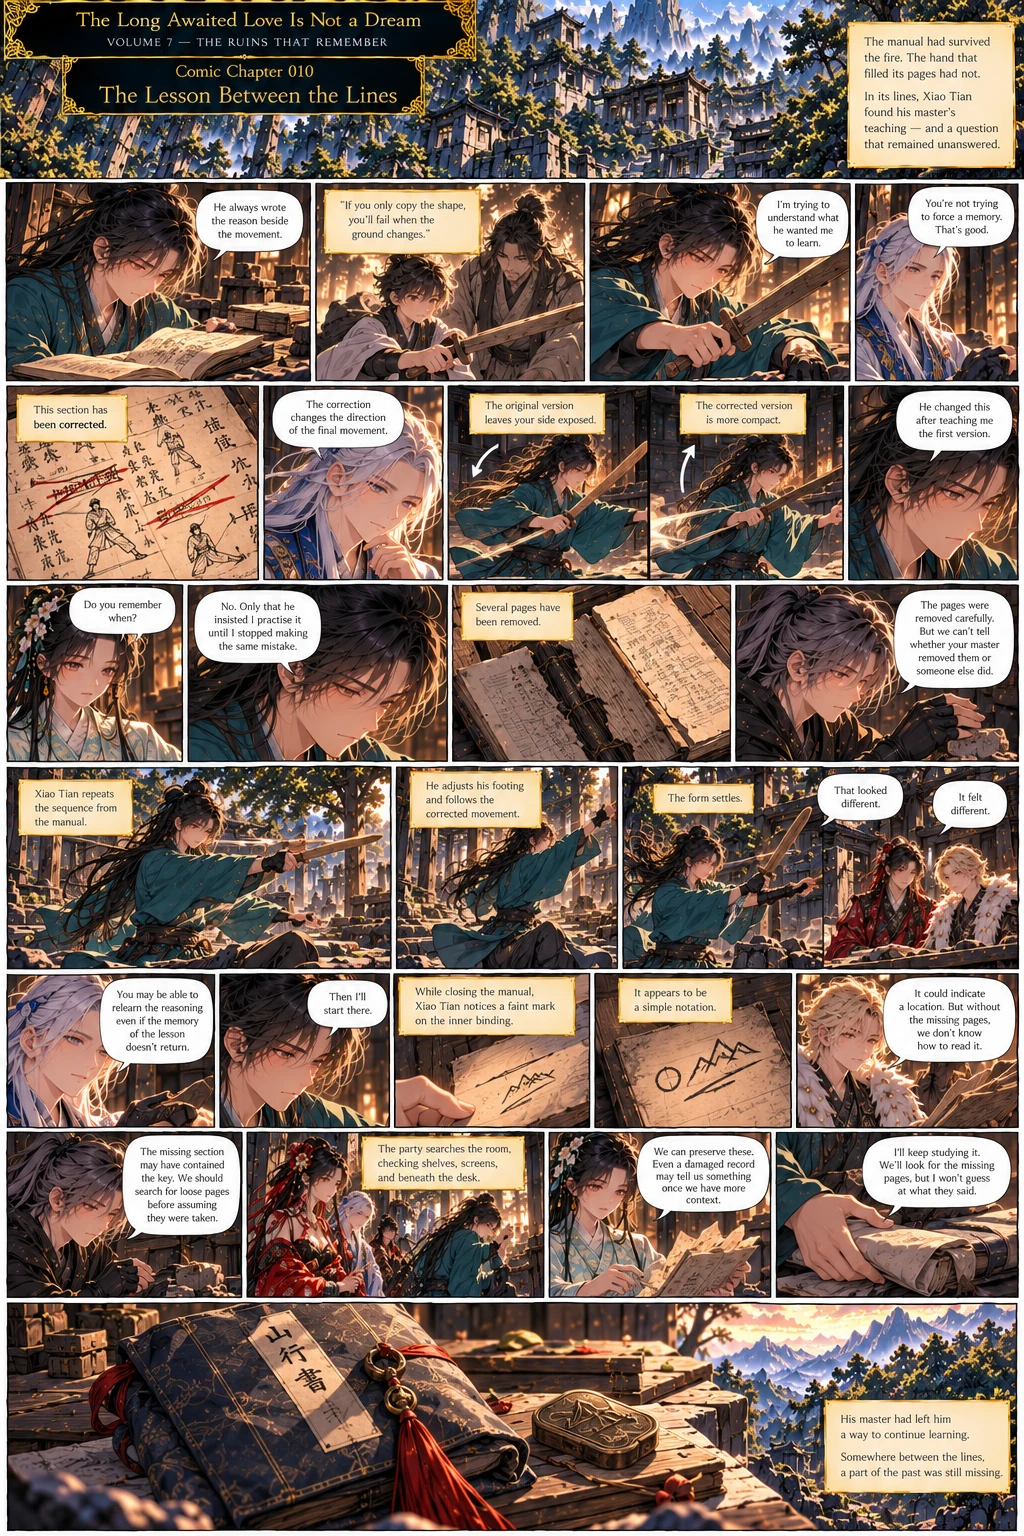
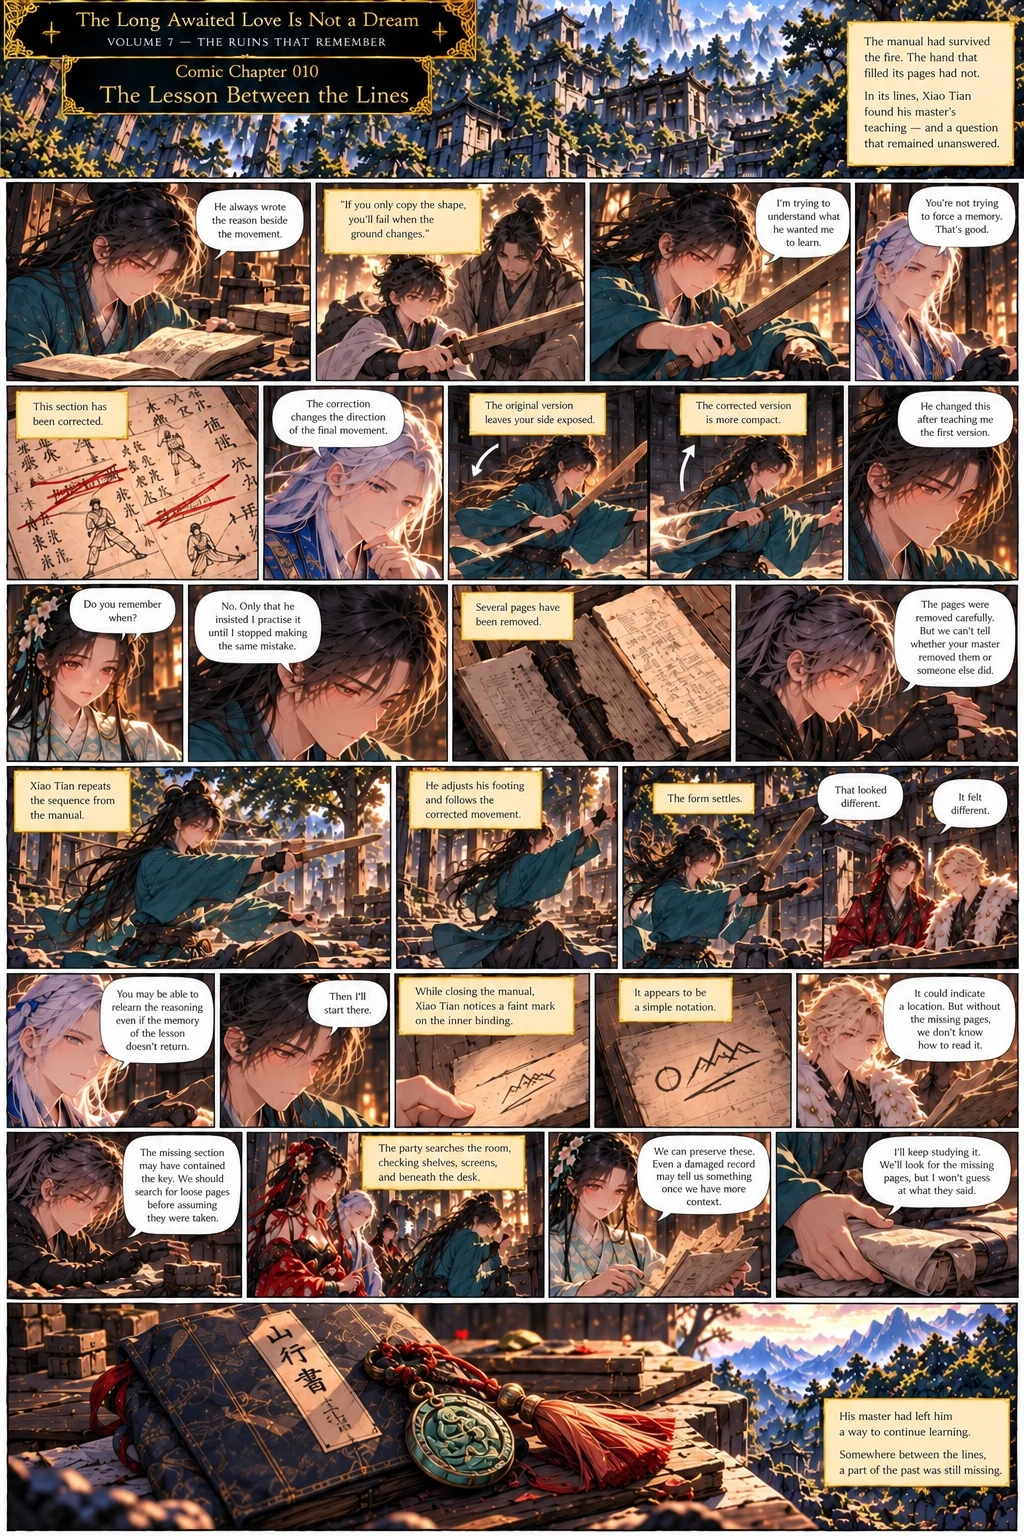
Volume 7: install regenerated comics 007, 009, 010 (jade keepsake); update text
Claude-Session: https://claude.ai/code/session_01XEYzSJa6dBuS74MycM45Hs

Changed region(s): [[0.0, 0.0, 1.0, 1.0]]

diff --git a/scripts/chapters.js b/scripts/chapters.js
@@ -882,7 +882,7 @@ const CHAPTER_DESIGN = {
   events:['Training, chores and a boy carrying water.','A chipped wooden whistle.','Storerooms disturbed around the latches.','"Remember the route. Return when the task is done."'],
   chars:['xiyu','dongyue','cangyuan','xining','xiaotian','yaxing','hoko','yanwatcher'], intro:[], unlocks:['Memory: he was sent away on an errand before the attack']},
  246:{title:'The Manual Behind the Wall', book:'—', loc:'A stable room of the estate',
-  sum:'VOLUME 7, COMIC 009. The estate holds many traces of the past: some scattered by fire and violence, others survived where no one thought to look. In a stable room a section of wall looks different: there is a cavity behind it, sealed carefully. A fragment surfaces: his master kneeling beside the wall, pressing a brick into place. "Let me open it." Inside a well-preserved martial manual, titled 山行書, in his master\'s writing: "A technique is not a string of movements. Understand why each movement is there." His body remembers the form: "I know how to perform it. I don\'t remember learning every part." Dongyue: "The manual may help you reconnect the movements with their instruction. But we shouldn\'t assume it can restore every memory." "He left this for me." "Did he hide it because he knew something would happen?" "Possibly. Or he may have wanted it kept safe for another reason. We don\'t have enough evidence to know." Xiao Tian wraps the manual in clean cloth and keeps it close, alongside the wooden token: "I\'ll learn what\'s written here. And I\'ll find out why he left it for me." His master\'s inheritance had survived; the reason for hiding it had not.',
+  sum:'VOLUME 7, COMIC 009. The estate holds many traces of the past: some scattered by fire and violence, others survived where no one thought to look. In a stable room a section of wall looks different: there is a cavity behind it, sealed carefully. A fragment surfaces: his master kneeling beside the wall, pressing a brick into place. "Let me open it." Inside a well-preserved martial manual, titled 山行書, in his master\'s writing: "A technique is not a string of movements. Understand why each movement is there." His body remembers the form: "I know how to perform it. I don\'t remember learning every part." Dongyue: "The manual may help you reconnect the movements with their instruction. But we shouldn\'t assume it can restore every memory." "He left this for me." "Did he hide it because he knew something would happen?" "Possibly. Or he may have wanted it kept safe for another reason. We don\'t have enough evidence to know." Xiao Tian wraps the manual in clean cloth and keeps it close, alongside his master\'s jade keepsake: "I\'ll learn what\'s written here. And I\'ll find out why he left it for me." His master\'s inheritance had survived; the reason for hiding it had not.',
   events:['A cavity sealed with care.','A martial manual in his master\'s hand.','"Understand why each movement is there."','"He left this for me."'],
   chars:['xiyu','dongyue','cangyuan','xining','xiaotian','yaxing','hoko','yanwatcher'], intro:[], unlocks:['Discovery: the manual 山行書']},
  247:{title:'The Lesson Between the Lines', book:'—', loc:'The estate room',

diff --git a/sw.js b/sw.js
@@ -1,5 +1,5 @@
 /* Crimson Moon service worker: app shell cached for offline play; images/comics cached as you play. */
-const VERSION = 'crimson-moon-v52';
+const VERSION = 'crimson-moon-v53';
 const SHELL = ['./', './index.html', './styles.css', './manifest.webmanifest',
   './scripts/characters.js','./scripts/chapters.js','./scripts/script.js','./scripts/script_v2.js','./scripts/hooks.js','./scripts/bounties.js','./scripts/relations.js','./scripts/board.js','./scripts/rest.js','./scripts/herbal.js','./scripts/personal.js','./scripts/equip.js','./scripts/ledger.js','./scripts/seal.js','./scripts/people.js','./scripts/core.js','./scripts/enemies.js','./scripts/battle.js','./scripts/journal.js','./scripts/temple.js','./assets/maps/ice_temple.webp','./assets/maps/ice_temple_v4.webp','./assets/maps/ice_temple_lower_v4.webp','./assets/volume4_cover.webp','./assets/volume5_cover.webp','./assets/volume6_cover.webp',
   './scripts/savedata.js','./scripts/storypopup.js','./scripts/ui.js','./assets/splash.webp','./assets/volume1_cover.webp','./assets/icons/icon-192.png','./assets/icons/icon-512.png','./assets/icons/icon-maskable-192.png','./assets/icons/icon-maskable-512.png'];

diff --git a/docs/VOLUME2.md b/docs/VOLUME2.md
@@ -379,3 +379,7 @@ Keep 008-010 and 015 as the canonical versions; replace the old 011-014 in seque
 - 006 What Survived the Fire (Xiao Tian finds his master's **jade keepsake**, not the manual; it replaces the placeholder at 243) · 011 The Night of Masks regenerated so the keepsake is the jade token (the earlier "wooden token" in 009-011 text is now the jade token) · 016 The Route Beyond the Mountain (chapter 253, `LAST_CHAPTER = 253`): the party leaves for the nearest town beyond the mountains to look for records about "Jinghe".
 - **Inconsistency for the author:** older Volume 7 pages (009 "the wooden token", 010 the item beside the manual) still show a different token (wooden or dark metal), and 007/009 call the keepsake a "wooden" or "metal" token; only 006 and the new 011 show the jade one. Those pages may need regenerating. The game text for 246-247 still says "wooden token"; I left it as written on those pages.
 - Page note: 006's keepsake was found in 242's "old room"; the hairpin from 242 is not mentioned in 006.
+
+## Volume 7 comics 007, 009, 010 regenerated for the jade keepsake (chapters 244, 246, 247)
+- All three now show the jade keepsake; art installed and the game text's "wooden token" changed to "jade keepsake". Xiyu and Cangyuan are drawn distinctly in 010 and 009.
+- **Inconsistencies for the author:** (1) **007 and 009 now repeat each other**: both open with the same caption ("The estate held many traces of the past...") and the same first beats ("The next room is stable enough to enter. Avoid the beam on the left" / "I remember coming this way" / the cavity behind the wall "sealed carefully"), and 007 now finds the manual 山行書 in a hidden box with the jade token, which is the discovery 009 is titled for ("The Manual Behind the Wall"). The manual is therefore found twice. 007 no longer ends on the map to the area beneath the main hall (it lost that hook); 009 is almost unchanged. One of them needs a rewrite (e.g. 007 = the map and the note only). (2) The captions on 007 and 009 still say "alongside the wooden token" while the art shows the jade token. (3) In 007 I cannot tell which panels are Xiyu and which are Cangyuan: both wear red ribbons and gold ornaments; the red off-shoulder robe and flower hairpin of Xiyu are not clearly visible.
